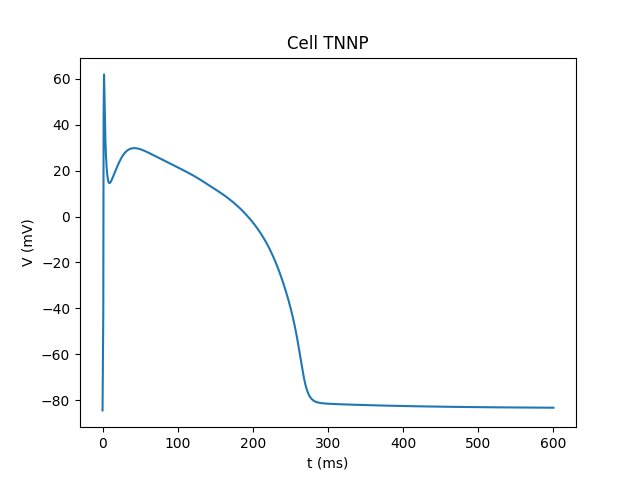
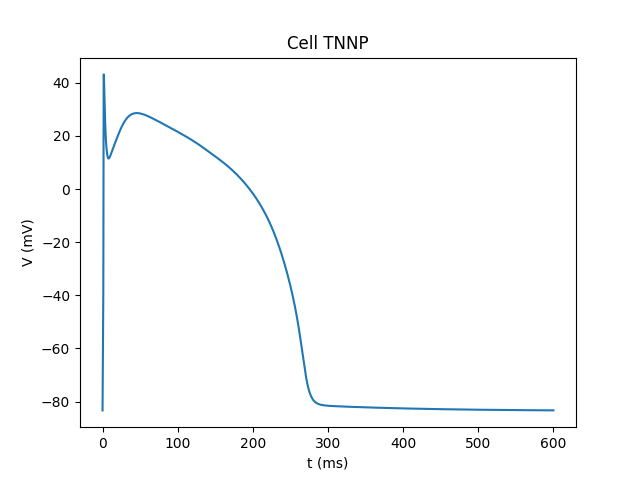
Single cell small changes

diff --git a/single_cell.c b/single_cell.c
@@ -19,7 +19,7 @@ Stimulation parameters
 double stim_strength = -38;          // Stimulation strength -> uA/cm^2 
 
 double t_s1_begin = 0.0;            // Stimulation start time -> ms
-double stim_duration = 2.0;         // Stimulation duration -> ms
+double stim_duration = 1.0;         // Stimulation duration -> ms
 
 
 /*----------------------------------------
